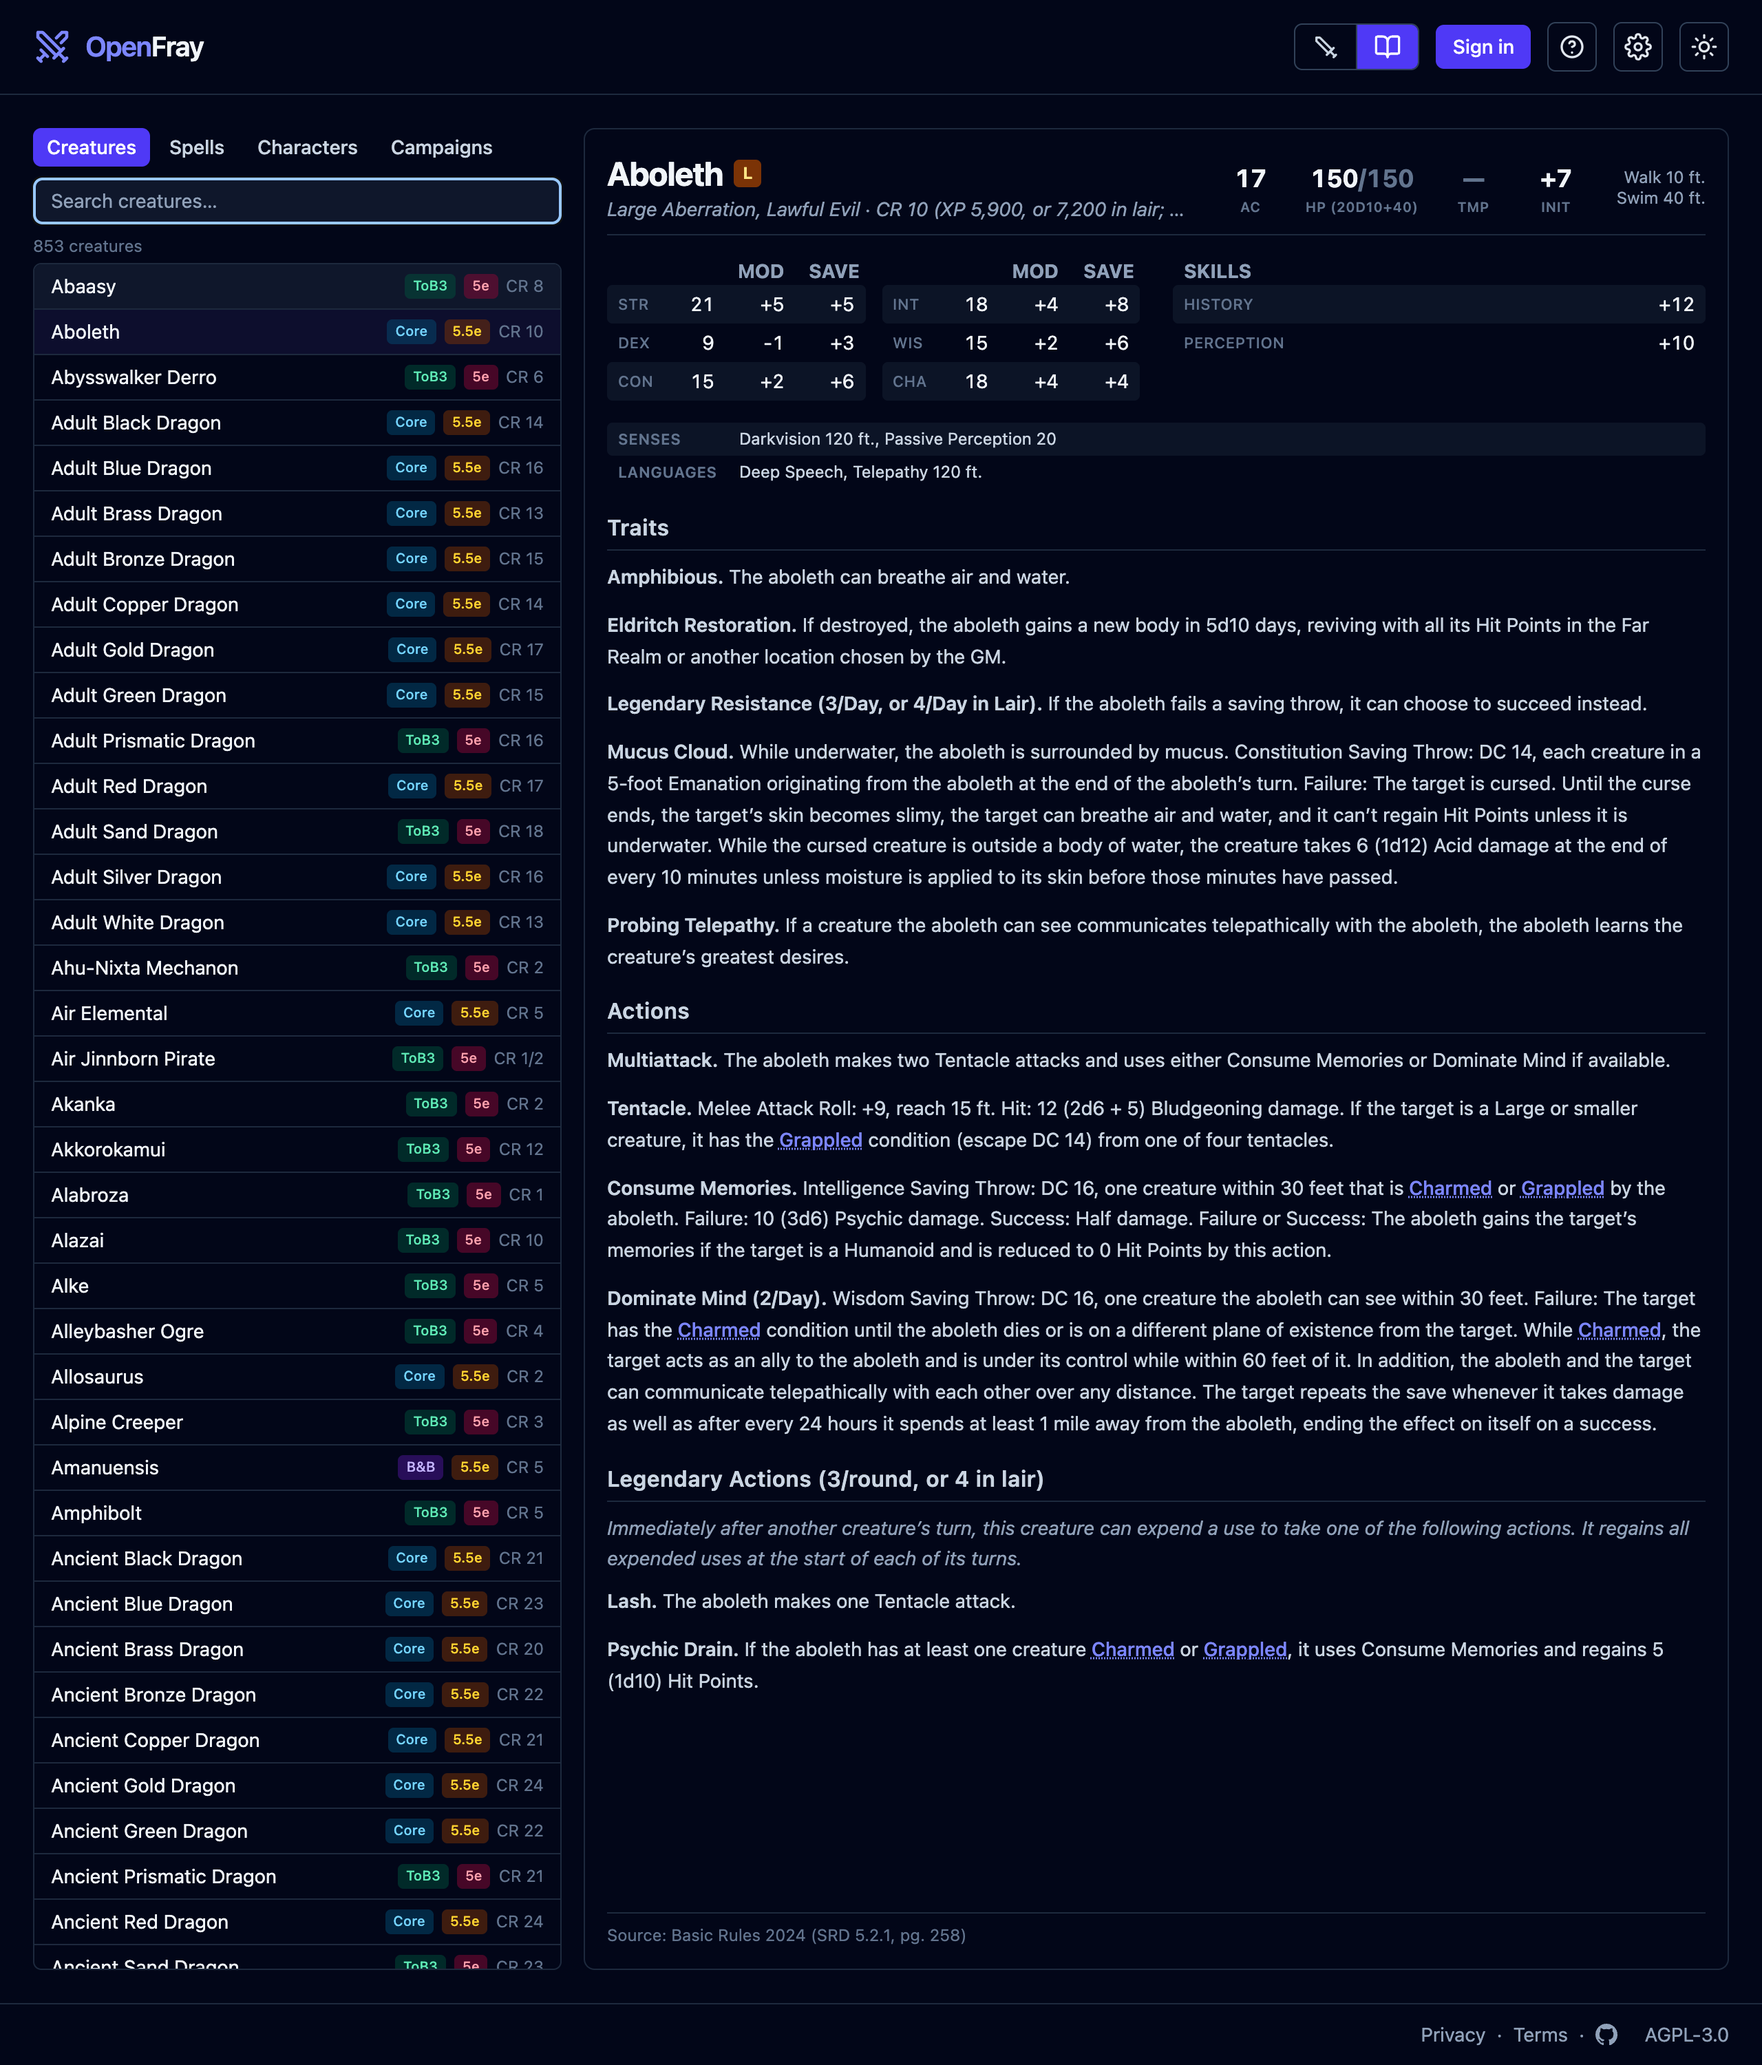
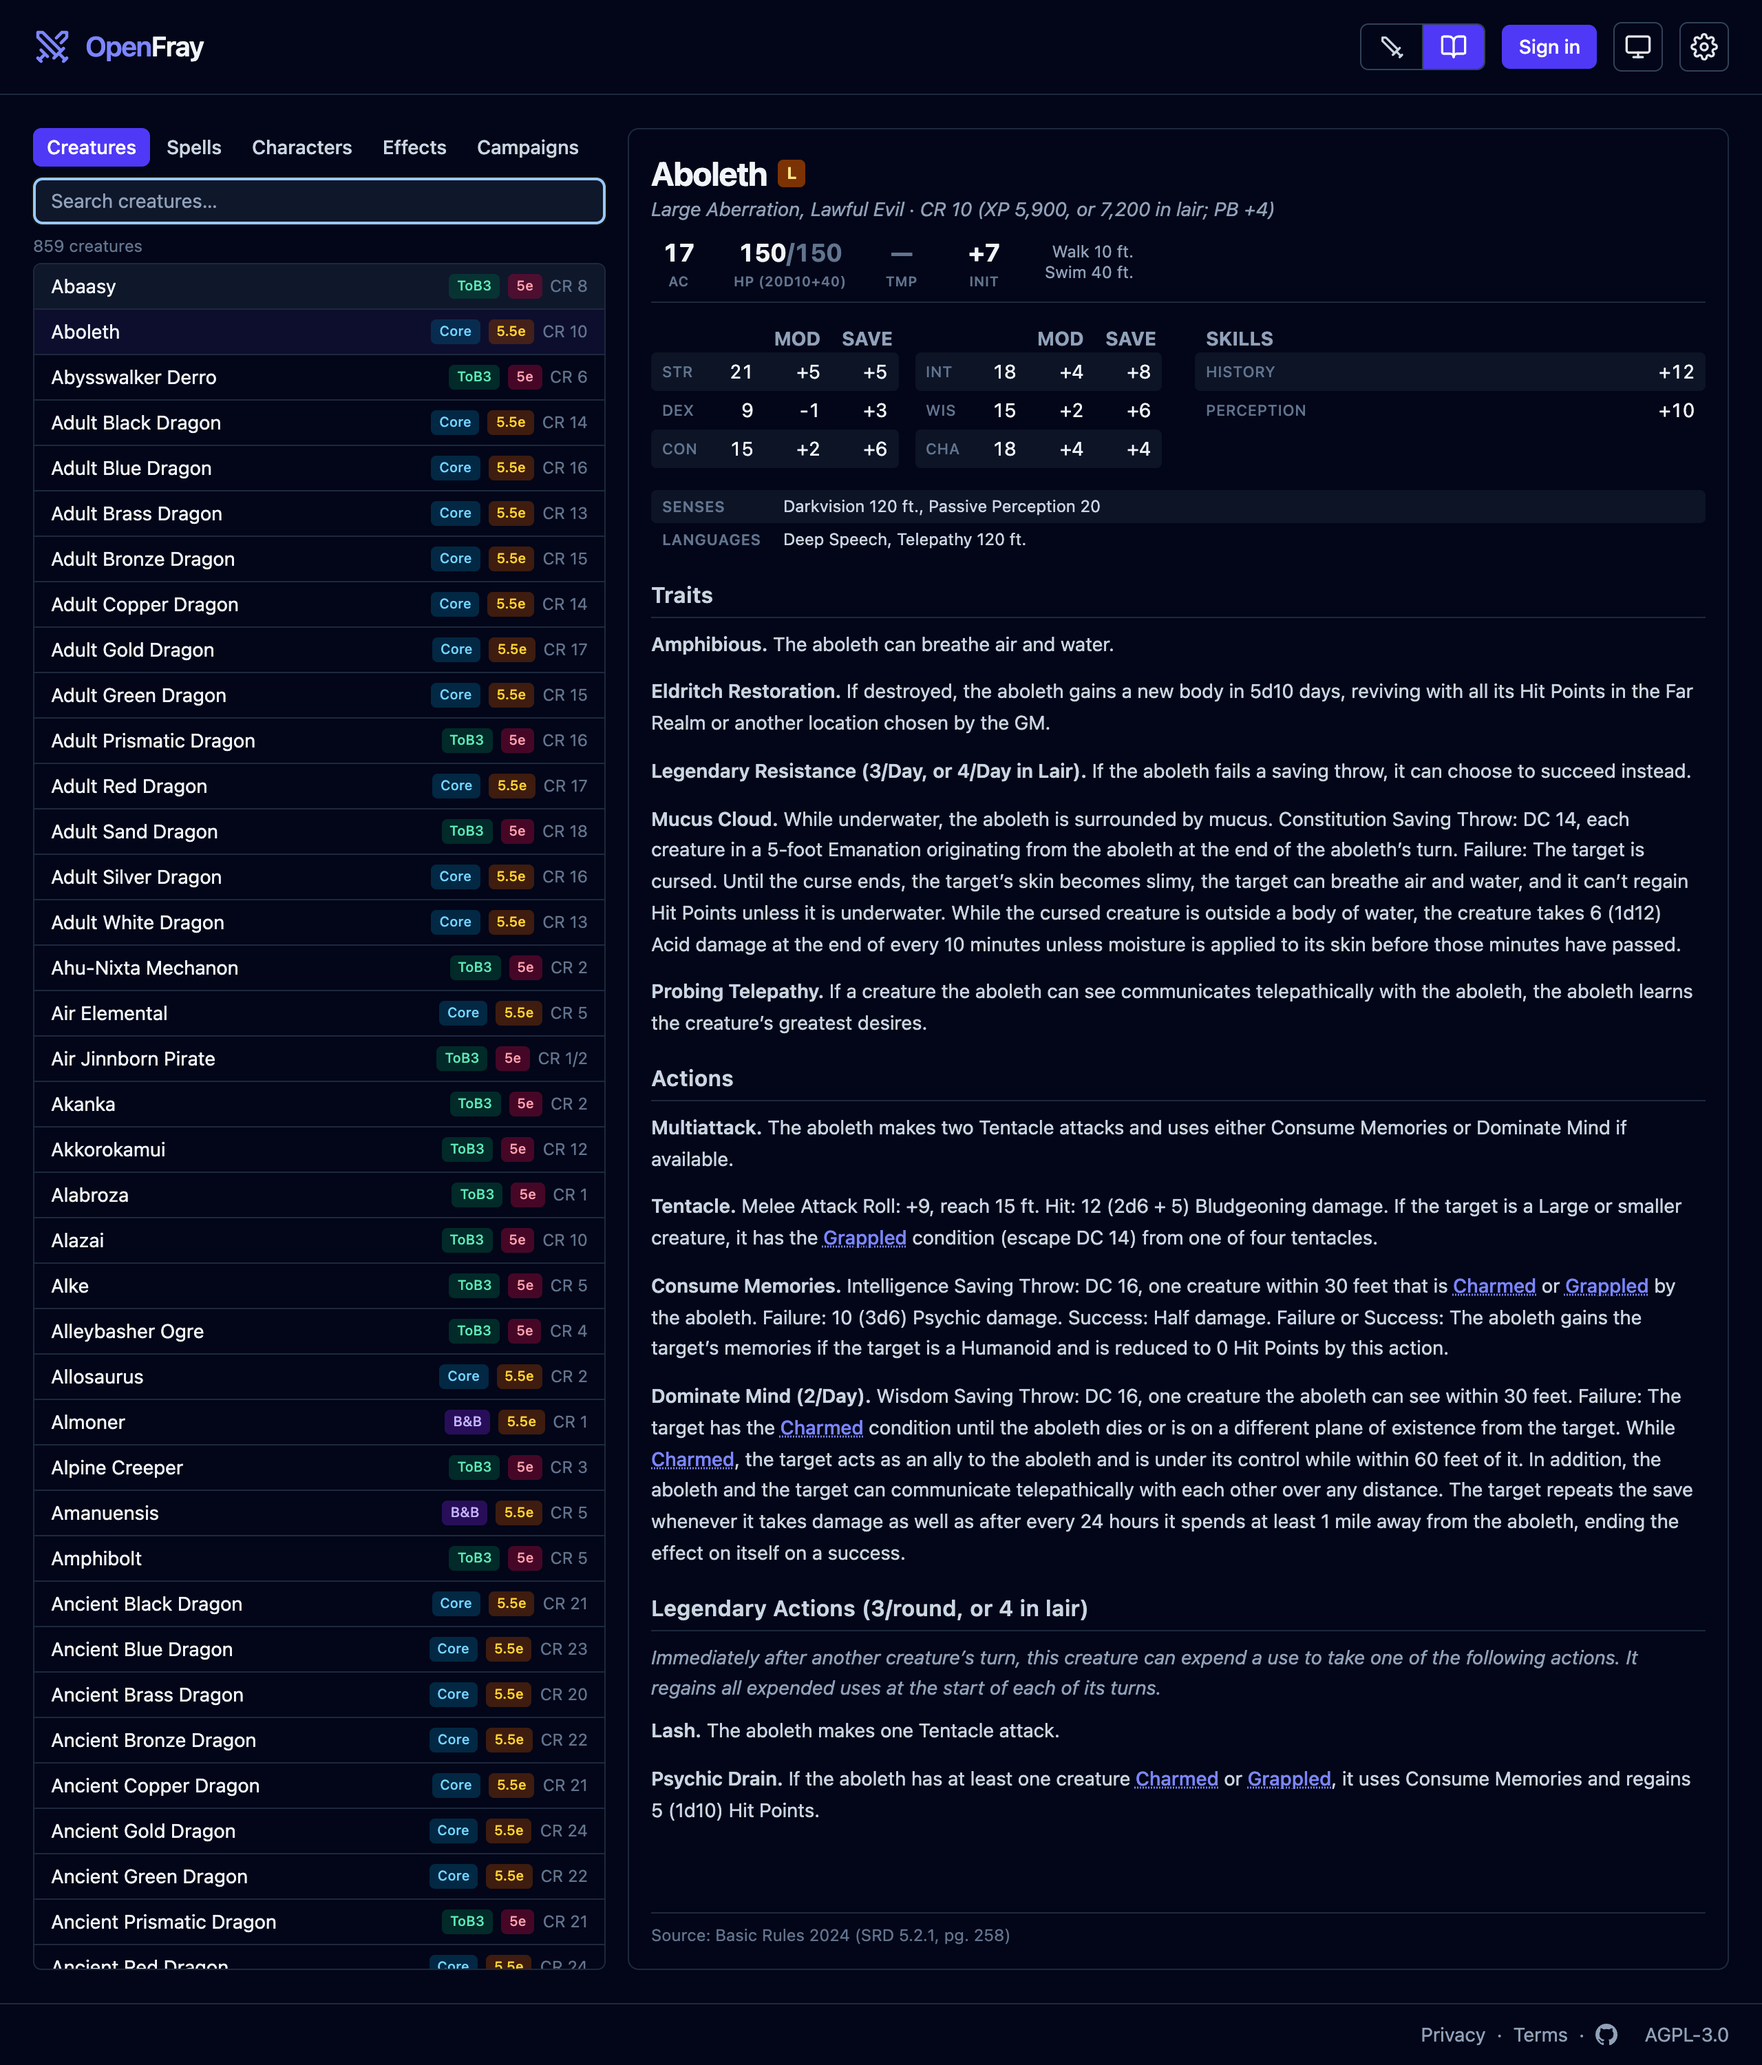
Site: re-shoot the homepage captures from the current build
All four heroes predated the gear-menu header; the compendium one also
predated the Effects tab, and the group-save one the per-effect Hide
buttons. The library-enabling helper in shots.py still clicked a Settings
button that no longer exists — its substring match hit the gear and opened
the menu instead of the panel — so it goes through the gear properly now.
Three captures the old homepage left behind reference nothing and are
deleted; the news post's historical shot stays as history.

diff --git a/scripts/screenshots/shots.py b/scripts/screenshots/shots.py
@@ -529,7 +529,7 @@ def _enable_libraries(page, *names):
     The checkbox is clicked rather than its label: a first-party library's name inside
     that label is a link to the book, so clicking the text navigates away.
     """
-    page.get_by_role("button", name="Settings").click()
+    open_settings(page)
     page.wait_for_selector("text=Libraries")
     for name in names:
         page.locator("label", has_text=name).locator("input[type=checkbox]").first.check()
